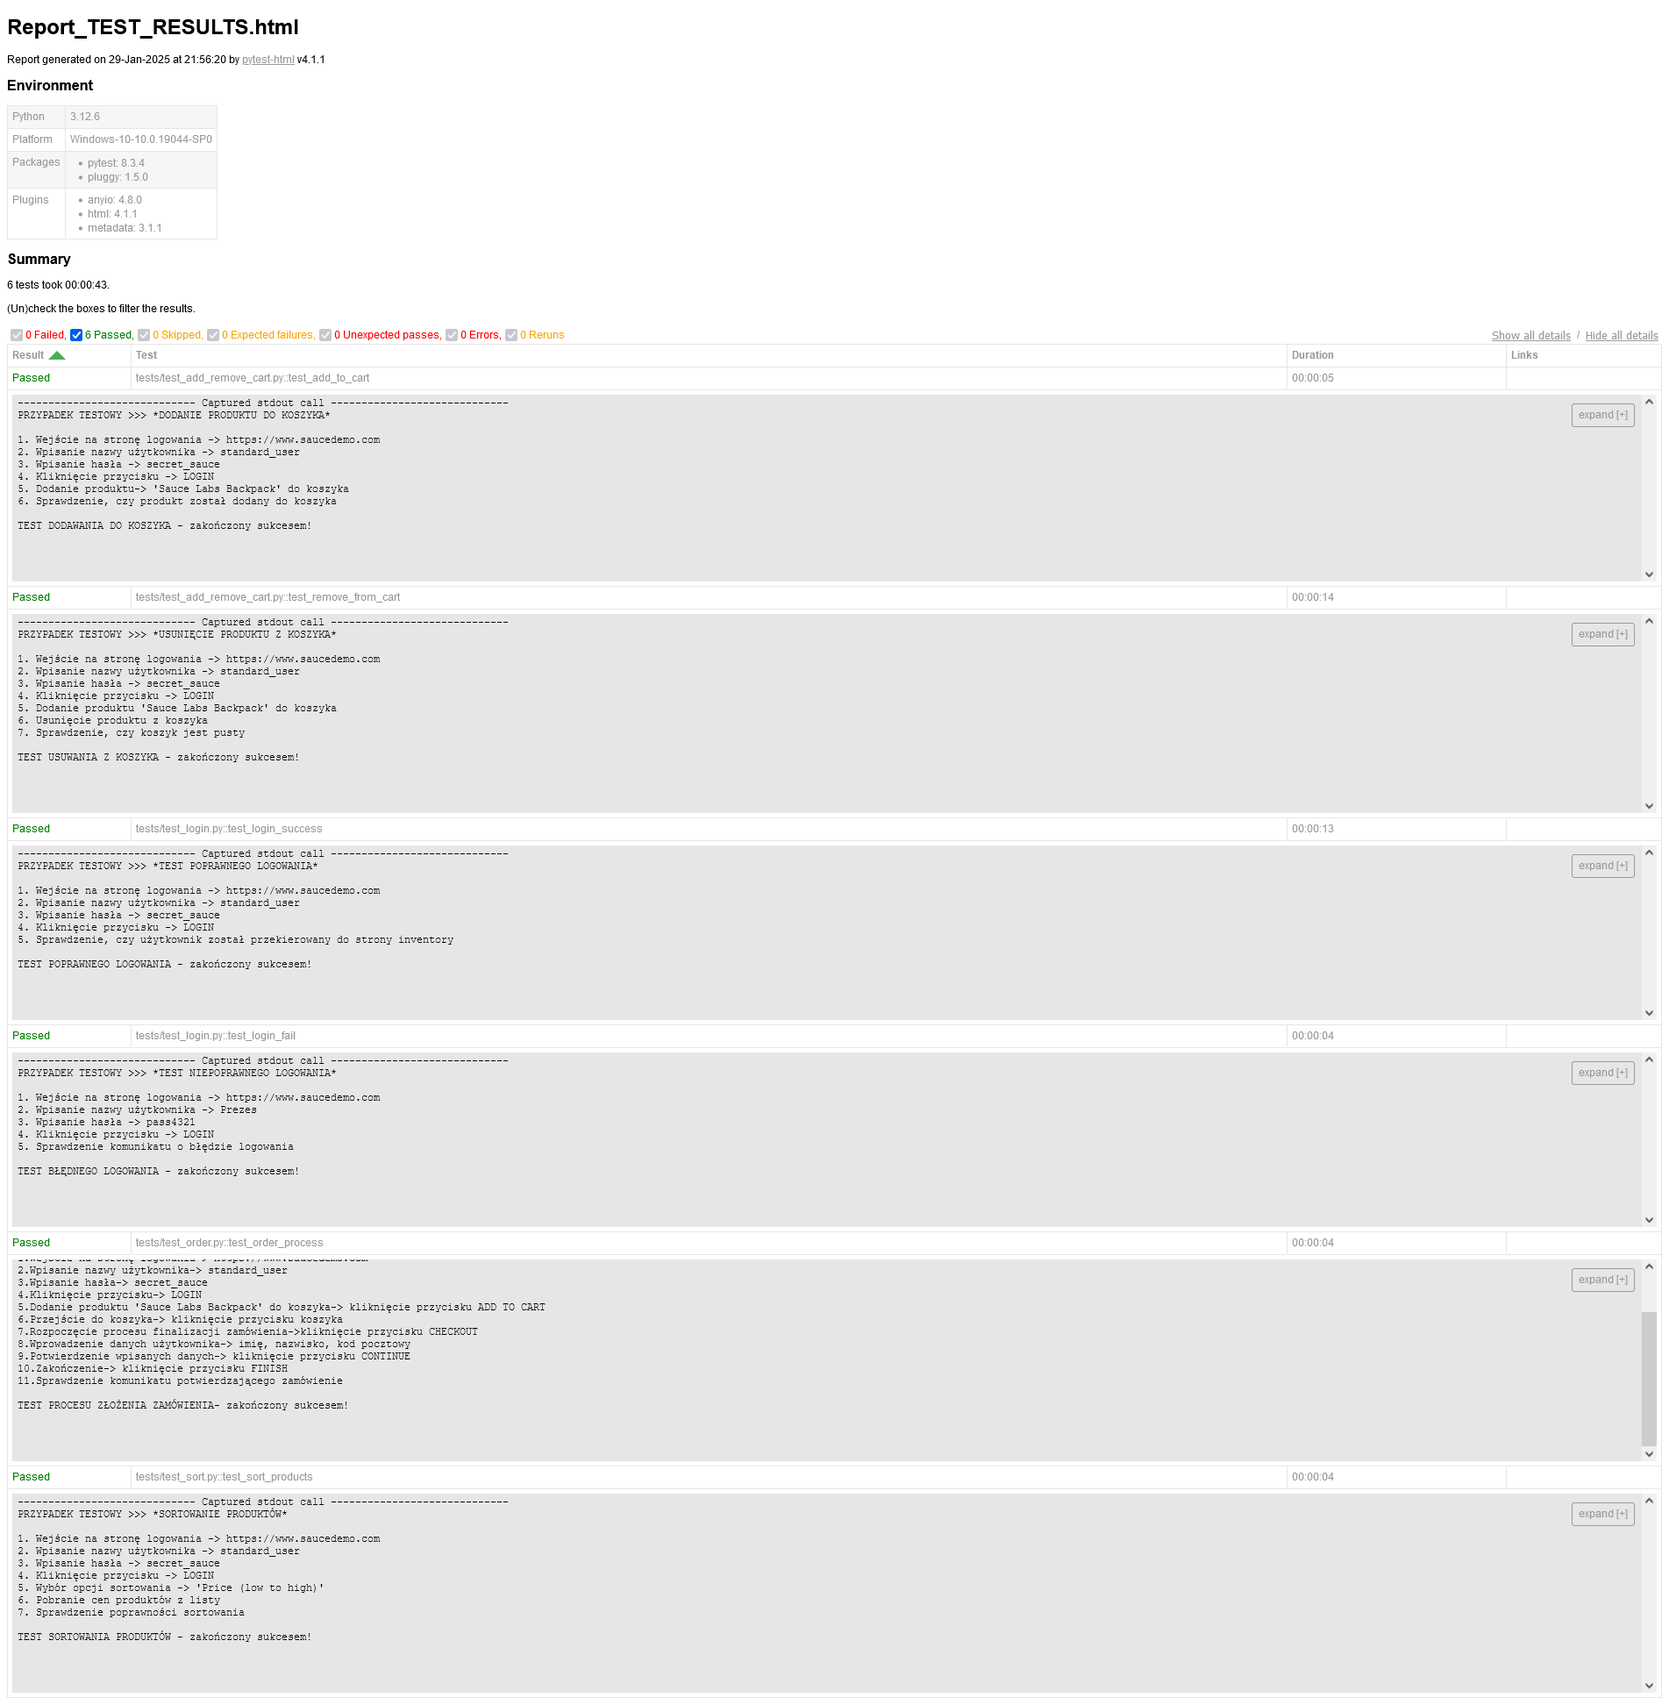
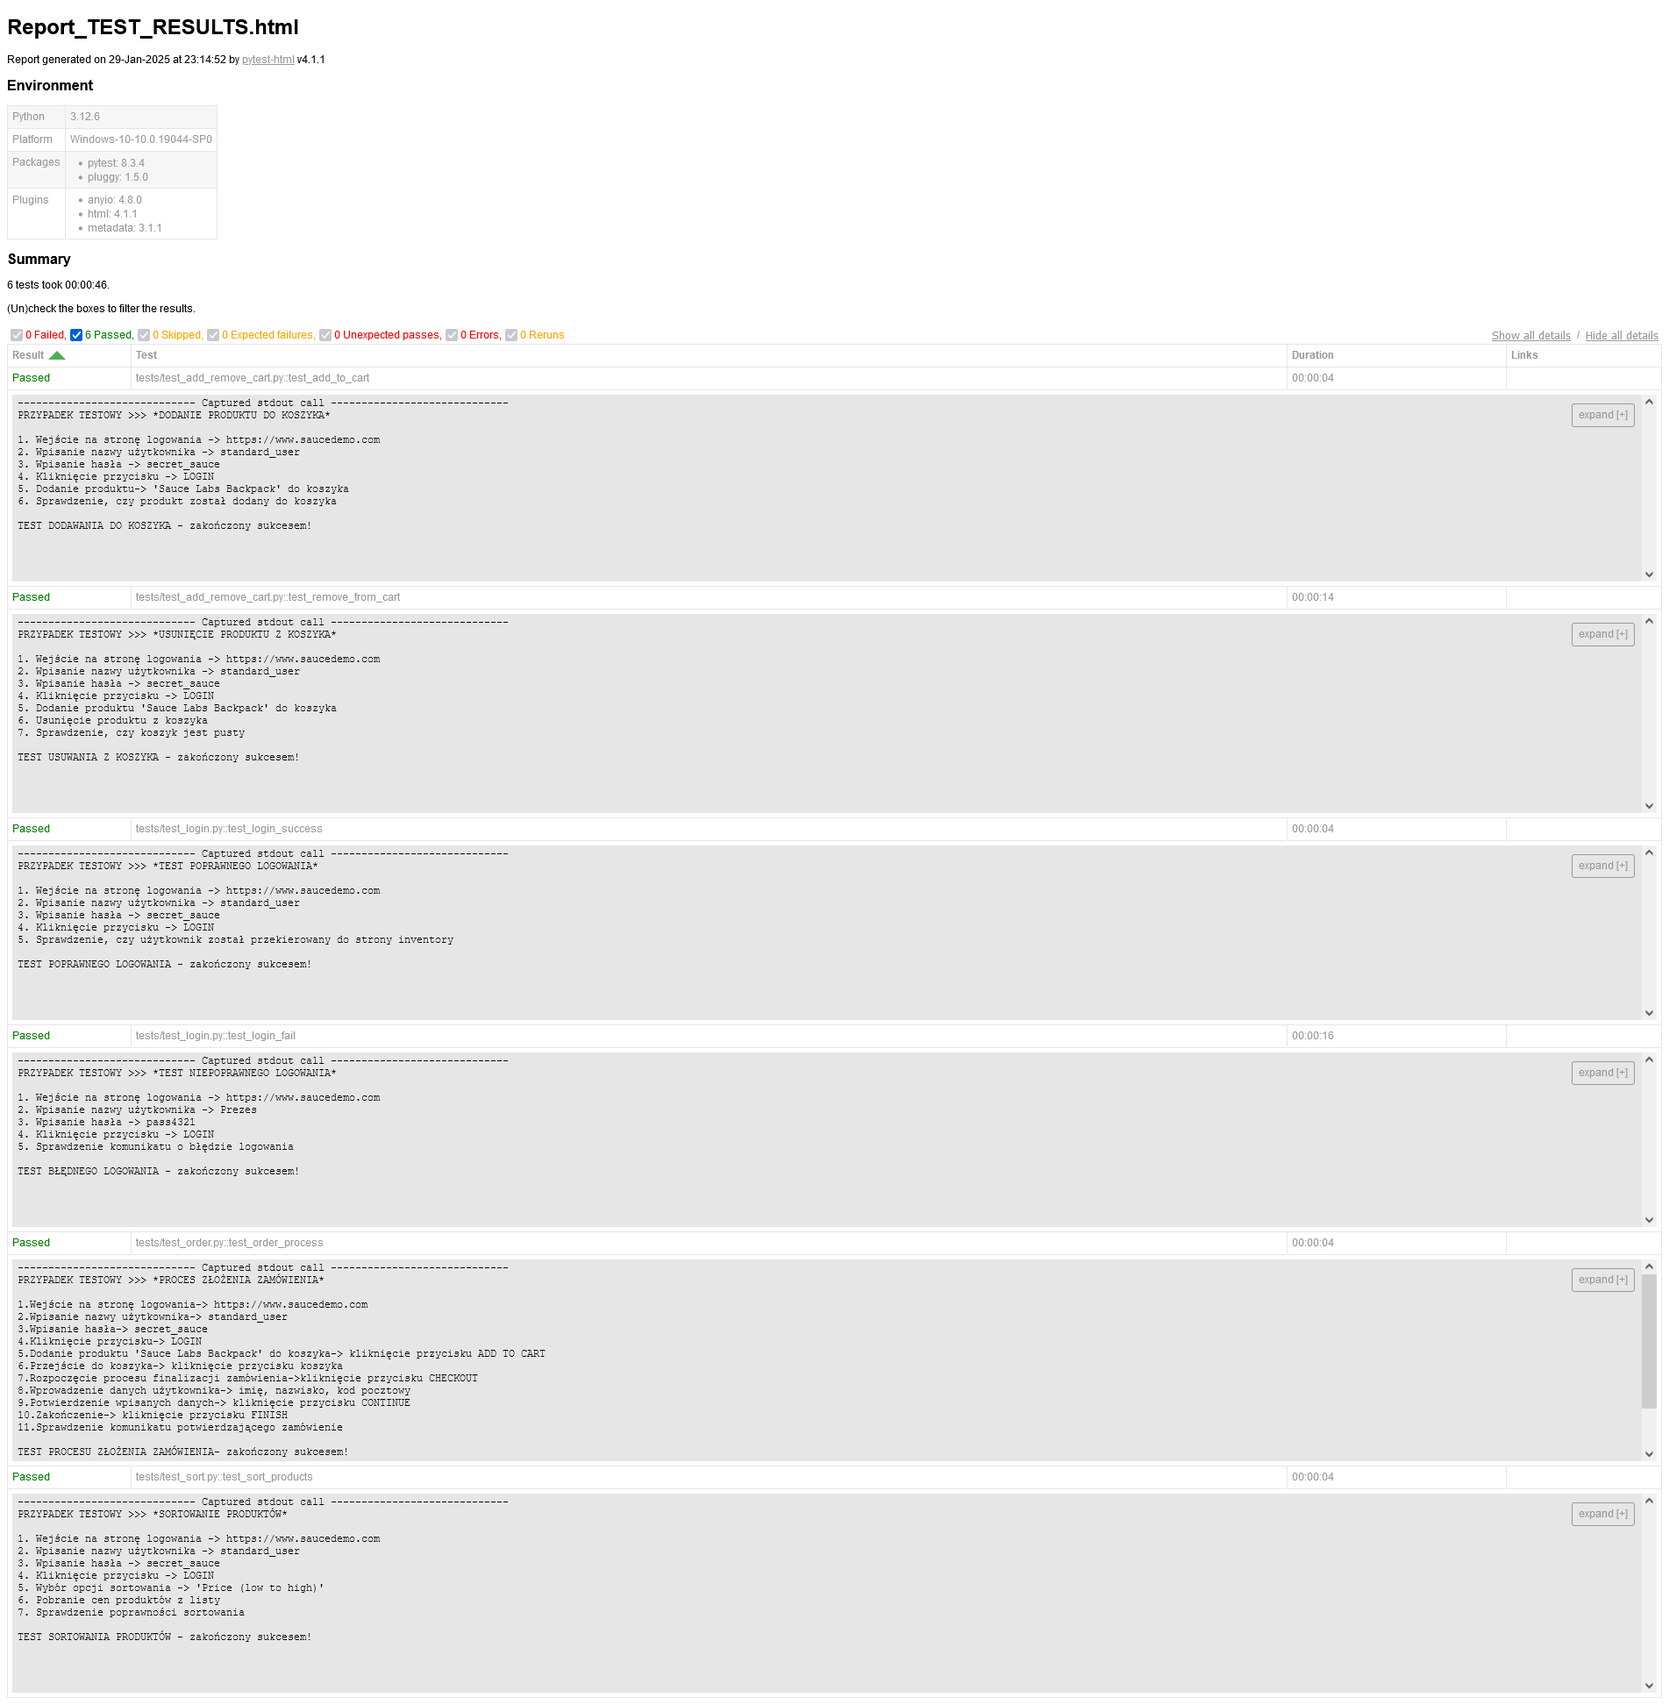
aktualizacja testów

Changed region(s): [[0.0, 0.7407, 0.279, 0.8642], [0.9611, 0.8333, 0.9921, 0.8642], [0.9611, 0.7407, 0.9921, 0.7716]]

diff --git a/reports/Report_TEST_RESULTS.html b/reports/Report_TEST_RESULTS.html
@@ -7,7 +7,7 @@
   </head>
   <body>
     <h1 id="title">Report_TEST_RESULTS.html</h1>
-    <p>Report generated on 29-Jan-2025 at 22:23:29 by <a href="https://pypi.python.org/pypi/pytest-html">pytest-html</a>
+    <p>Report generated on 29-Jan-2025 at 23:14:52 by <a href="https://pypi.python.org/pypi/pytest-html">pytest-html</a>
         v4.1.1</p>
     <div id="environment-header">
       <h2>Environment</h2>
@@ -61,7 +61,7 @@
         <h2>Summary</h2>
         <div class="additional-summary prefix">
         </div>
-        <p class="run-count">6 tests took 00:00:43.</p>
+        <p class="run-count">6 tests took 00:00:46.</p>
         <p class="filter">(Un)check the boxes to filter the results.</p>
         <div class="summary__reload">
           <div class="summary__reload__button hidden" onclick="location.reload()">
@@ -108,7 +108,7 @@
     </table>
   </body>
   <footer>
-    <div id="data-container" data-jsonblob="{&#34;environment&#34;: {&#34;Python&#34;: &#34;3.12.6&#34;, &#34;Platform&#34;: &#34;Windows-10-10.0.19044-SP0&#34;, &#34;Packages&#34;: {&#34;pytest&#34;: &#34;8.3.4&#34;, &#34;pluggy&#34;: &#34;1.5.0&#34;}, &#34;Plugins&#34;: {&#34;anyio&#34;: &#34;4.8.0&#34;, &#34;html&#34;: &#34;4.1.1&#34;, &#34;metadata&#34;: &#34;3.1.1&#34;}}, &#34;tests&#34;: {&#34;tests/test_add_remove_cart.py::test_add_to_cart&#34;: [{&#34;extras&#34;: [], &#34;result&#34;: &#34;Passed&#34;, &#34;testId&#34;: &#34;tests/test_add_remove_cart.py::test_add_to_cart&#34;, &#34;duration&#34;: &#34;00:00:04&#34;, &#34;resultsTableRow&#34;: [&#34;&lt;td class=\&#34;col-result\&#34;&gt;Passed&lt;/td&gt;&#34;, &#34;&lt;td class=\&#34;col-testId\&#34;&gt;tests/test_add_remove_cart.py::test_add_to_cart&lt;/td&gt;&#34;, &#34;&lt;td class=\&#34;col-duration\&#34;&gt;00:00:04&lt;/td&gt;&#34;, &#34;&lt;td class=\&#34;col-links\&#34;&gt;&lt;/td&gt;&#34;], &#34;log&#34;: &#34;----------------------------- Captured stdout call -----------------------------\nPRZYPADEK TESTOWY &amp;gt;&amp;gt;&amp;gt; *DODANIE PRODUKTU DO KOSZYKA*\n\n1. Wej\u015bcie na stron\u0119 logowania -&amp;gt; https://www.saucedemo.com\n2. Wpisanie nazwy u\u017cytkownika -&amp;gt; standard_user\n3. Wpisanie has\u0142a -&amp;gt; secret_sauce\n4. Klikni\u0119cie przycisku -&amp;gt; LOGIN\n5. Dodanie produktu-&amp;gt; &amp;#x27;Sauce Labs Backpack&amp;#x27; do koszyka\n6. Sprawdzenie, czy produkt zosta\u0142 dodany do koszyka\n\nTEST DODAWANIA DO KOSZYKA - zako\u0144czony sukcesem!\n&#34;}], &#34;tests/test_add_remove_cart.py::test_remove_from_cart&#34;: [{&#34;extras&#34;: [], &#34;result&#34;: &#34;Passed&#34;, &#34;testId&#34;: &#34;tests/test_add_remove_cart.py::test_remove_from_cart&#34;, &#34;duration&#34;: &#34;00:00:14&#34;, &#34;resultsTableRow&#34;: [&#34;&lt;td class=\&#34;col-result\&#34;&gt;Passed&lt;/td&gt;&#34;, &#34;&lt;td class=\&#34;col-testId\&#34;&gt;tests/test_add_remove_cart.py::test_remove_from_cart&lt;/td&gt;&#34;, &#34;&lt;td class=\&#34;col-duration\&#34;&gt;00:00:14&lt;/td&gt;&#34;, &#34;&lt;td class=\&#34;col-links\&#34;&gt;&lt;/td&gt;&#34;], &#34;log&#34;: &#34;----------------------------- Captured stdout call -----------------------------\nPRZYPADEK TESTOWY &amp;gt;&amp;gt;&amp;gt; *USUNI\u0118CIE PRODUKTU Z KOSZYKA*\n\n1. Wej\u015bcie na stron\u0119 logowania -&amp;gt; https://www.saucedemo.com\n2. Wpisanie nazwy u\u017cytkownika -&amp;gt; standard_user\n3. Wpisanie has\u0142a -&amp;gt; secret_sauce\n4. Klikni\u0119cie przycisku -&amp;gt; LOGIN\n5. Dodanie produktu &amp;#x27;Sauce Labs Backpack&amp;#x27; do koszyka\n6. Usuni\u0119cie produktu z koszyka\n7. Sprawdzenie, czy koszyk jest pusty\n\nTEST USUWANIA Z KOSZYKA - zako\u0144czony sukcesem!\n&#34;}], &#34;tests/test_login.py::test_login_success&#34;: [{&#34;extras&#34;: [], &#34;result&#34;: &#34;Passed&#34;, &#34;testId&#34;: &#34;tests/test_login.py::test_login_success&#34;, &#34;duration&#34;: &#34;00:00:12&#34;, &#34;resultsTableRow&#34;: [&#34;&lt;td class=\&#34;col-result\&#34;&gt;Passed&lt;/td&gt;&#34;, &#34;&lt;td class=\&#34;col-testId\&#34;&gt;tests/test_login.py::test_login_success&lt;/td&gt;&#34;, &#34;&lt;td class=\&#34;col-duration\&#34;&gt;00:00:12&lt;/td&gt;&#34;, &#34;&lt;td class=\&#34;col-links\&#34;&gt;&lt;/td&gt;&#34;], &#34;log&#34;: &#34;----------------------------- Captured stdout call -----------------------------\nPRZYPADEK TESTOWY &amp;gt;&amp;gt;&amp;gt; *TEST POPRAWNEGO LOGOWANIA*\n\n1. Wej\u015bcie na stron\u0119 logowania -&amp;gt; https://www.saucedemo.com\n2. Wpisanie nazwy u\u017cytkownika -&amp;gt; standard_user\n3. Wpisanie has\u0142a -&amp;gt; secret_sauce\n4. Klikni\u0119cie przycisku -&amp;gt; LOGIN\n5. Sprawdzenie, czy u\u017cytkownik zosta\u0142 przekierowany do strony inventory\n\nTEST POPRAWNEGO LOGOWANIA - zako\u0144czony sukcesem!\n&#34;}], &#34;tests/test_login.py::test_login_fail&#34;: [{&#34;extras&#34;: [], &#34;result&#34;: &#34;Passed&#34;, &#34;testId&#34;: &#34;tests/test_login.py::test_login_fail&#34;, &#34;duration&#34;: &#34;00:00:04&#34;, &#34;resultsTableRow&#34;: [&#34;&lt;td class=\&#34;col-result\&#34;&gt;Passed&lt;/td&gt;&#34;, &#34;&lt;td class=\&#34;col-testId\&#34;&gt;tests/test_login.py::test_login_fail&lt;/td&gt;&#34;, &#34;&lt;td class=\&#34;col-duration\&#34;&gt;00:00:04&lt;/td&gt;&#34;, &#34;&lt;td class=\&#34;col-links\&#34;&gt;&lt;/td&gt;&#34;], &#34;log&#34;: &#34;----------------------------- Captured stdout call -----------------------------\nPRZYPADEK TESTOWY &amp;gt;&amp;gt;&amp;gt; *TEST NIEPOPRAWNEGO LOGOWANIA*\n\n1. Wej\u015bcie na stron\u0119 logowania -&amp;gt; https://www.saucedemo.com\n2. Wpisanie nazwy u\u017cytkownika -&amp;gt; Prezes\n3. Wpisanie has\u0142a -&amp;gt; pass4321\n4. Klikni\u0119cie przycisku -&amp;gt; LOGIN\n5. Sprawdzenie komunikatu o b\u0142\u0119dzie logowania\n\nTEST B\u0141\u0118DNEGO LOGOWANIA - zako\u0144czony sukcesem!\n&#34;}], &#34;tests/test_order.py::test_order_process&#34;: [{&#34;extras&#34;: [], &#34;result&#34;: &#34;Passed&#34;, &#34;testId&#34;: &#34;tests/test_order.py::test_order_process&#34;, &#34;duration&#34;: &#34;00:00:04&#34;, &#34;resultsTableRow&#34;: [&#34;&lt;td class=\&#34;col-result\&#34;&gt;Passed&lt;/td&gt;&#34;, &#34;&lt;td class=\&#34;col-testId\&#34;&gt;tests/test_order.py::test_order_process&lt;/td&gt;&#34;, &#34;&lt;td class=\&#34;col-duration\&#34;&gt;00:00:04&lt;/td&gt;&#34;, &#34;&lt;td class=\&#34;col-links\&#34;&gt;&lt;/td&gt;&#34;], &#34;log&#34;: &#34;----------------------------- Captured stdout call -----------------------------\nPRZYPADEK TESTOWY &amp;gt;&amp;gt;&amp;gt; *PROCES Z\u0141O\u017bENIA ZAM\u00d3WIENIA*\n\n1.Wej\u015bcie na stron\u0119 logowania-&amp;gt; https://www.saucedemo.com\n2.Wpisanie nazwy u\u017cytkownika-&amp;gt; standard_user\n3.Wpisanie has\u0142a-&amp;gt; secret_sauce\n4.Klikni\u0119cie przycisku-&amp;gt; LOGIN\n5.Dodanie produktu &amp;#x27;Sauce Labs Backpack&amp;#x27; do koszyka-&amp;gt; klikni\u0119cie przycisku ADD TO CART\n6.Przej\u015bcie do koszyka-&amp;gt; klikni\u0119cie przycisku koszyka\n7.Rozpocz\u0119cie procesu finalizacji zam\u00f3wienia-&amp;gt;klikni\u0119cie przycisku CHECKOUT\n8.Wprowadzenie danych u\u017cytkownika-&amp;gt; imi\u0119, nazwisko, kod pocztowy\n9.Potwierdzenie wpisanych danych-&amp;gt; klikni\u0119cie przycisku CONTINUE\n10.Zako\u0144czenie-&amp;gt; klikni\u0119cie przycisku FINISH\n11.Sprawdzenie komunikatu potwierdzaj\u0105cego zam\u00f3wienie\n\nTEST PROCESU Z\u0141O\u017bENIA ZAM\u00d3WIENIA- zako\u0144czony sukcesem!\n&#34;}], &#34;tests/test_sort.py::test_sort_products&#34;: [{&#34;extras&#34;: [], &#34;result&#34;: &#34;Passed&#34;, &#34;testId&#34;: &#34;tests/test_sort.py::test_sort_products&#34;, &#34;duration&#34;: &#34;00:00:04&#34;, &#34;resultsTableRow&#34;: [&#34;&lt;td class=\&#34;col-result\&#34;&gt;Passed&lt;/td&gt;&#34;, &#34;&lt;td class=\&#34;col-testId\&#34;&gt;tests/test_sort.py::test_sort_products&lt;/td&gt;&#34;, &#34;&lt;td class=\&#34;col-duration\&#34;&gt;00:00:04&lt;/td&gt;&#34;, &#34;&lt;td class=\&#34;col-links\&#34;&gt;&lt;/td&gt;&#34;], &#34;log&#34;: &#34;----------------------------- Captured stdout call -----------------------------\nPRZYPADEK TESTOWY &amp;gt;&amp;gt;&amp;gt; *SORTOWANIE PRODUKT\u00d3W*\n\n1. Wej\u015bcie na stron\u0119 logowania -&amp;gt; https://www.saucedemo.com\n2. Wpisanie nazwy u\u017cytkownika -&amp;gt; standard_user\n3. Wpisanie has\u0142a -&amp;gt; secret_sauce\n4. Klikni\u0119cie przycisku -&amp;gt; LOGIN\n5. Wyb\u00f3r opcji sortowania -&amp;gt; &amp;#x27;Price (low to high)&amp;#x27;\n6. Pobranie cen produkt\u00f3w z listy\n7. Sprawdzenie poprawno\u015bci sortowania\n\nTEST SORTOWANIA PRODUKT\u00d3W - zako\u0144czony sukcesem!\n&#34;}]}, &#34;renderCollapsed&#34;: [&#34;passed&#34;], &#34;initialSort&#34;: &#34;result&#34;, &#34;title&#34;: &#34;Report_TEST_RESULTS.html&#34;}"></div>
+    <div id="data-container" data-jsonblob="{&#34;environment&#34;: {&#34;Python&#34;: &#34;3.12.6&#34;, &#34;Platform&#34;: &#34;Windows-10-10.0.19044-SP0&#34;, &#34;Packages&#34;: {&#34;pytest&#34;: &#34;8.3.4&#34;, &#34;pluggy&#34;: &#34;1.5.0&#34;}, &#34;Plugins&#34;: {&#34;anyio&#34;: &#34;4.8.0&#34;, &#34;html&#34;: &#34;4.1.1&#34;, &#34;metadata&#34;: &#34;3.1.1&#34;}}, &#34;tests&#34;: {&#34;tests/test_add_remove_cart.py::test_add_to_cart&#34;: [{&#34;extras&#34;: [], &#34;result&#34;: &#34;Passed&#34;, &#34;testId&#34;: &#34;tests/test_add_remove_cart.py::test_add_to_cart&#34;, &#34;duration&#34;: &#34;00:00:04&#34;, &#34;resultsTableRow&#34;: [&#34;&lt;td class=\&#34;col-result\&#34;&gt;Passed&lt;/td&gt;&#34;, &#34;&lt;td class=\&#34;col-testId\&#34;&gt;tests/test_add_remove_cart.py::test_add_to_cart&lt;/td&gt;&#34;, &#34;&lt;td class=\&#34;col-duration\&#34;&gt;00:00:04&lt;/td&gt;&#34;, &#34;&lt;td class=\&#34;col-links\&#34;&gt;&lt;/td&gt;&#34;], &#34;log&#34;: &#34;----------------------------- Captured stdout call -----------------------------\nPRZYPADEK TESTOWY &amp;gt;&amp;gt;&amp;gt; *DODANIE PRODUKTU DO KOSZYKA*\n\n1. Wej\u015bcie na stron\u0119 logowania -&amp;gt; https://www.saucedemo.com\n2. Wpisanie nazwy u\u017cytkownika -&amp;gt; standard_user\n3. Wpisanie has\u0142a -&amp;gt; secret_sauce\n4. Klikni\u0119cie przycisku -&amp;gt; LOGIN\n5. Dodanie produktu-&amp;gt; &amp;#x27;Sauce Labs Backpack&amp;#x27; do koszyka\n6. Sprawdzenie, czy produkt zosta\u0142 dodany do koszyka\n\nTEST DODAWANIA DO KOSZYKA - zako\u0144czony sukcesem!\n&#34;}], &#34;tests/test_add_remove_cart.py::test_remove_from_cart&#34;: [{&#34;extras&#34;: [], &#34;result&#34;: &#34;Passed&#34;, &#34;testId&#34;: &#34;tests/test_add_remove_cart.py::test_remove_from_cart&#34;, &#34;duration&#34;: &#34;00:00:14&#34;, &#34;resultsTableRow&#34;: [&#34;&lt;td class=\&#34;col-result\&#34;&gt;Passed&lt;/td&gt;&#34;, &#34;&lt;td class=\&#34;col-testId\&#34;&gt;tests/test_add_remove_cart.py::test_remove_from_cart&lt;/td&gt;&#34;, &#34;&lt;td class=\&#34;col-duration\&#34;&gt;00:00:14&lt;/td&gt;&#34;, &#34;&lt;td class=\&#34;col-links\&#34;&gt;&lt;/td&gt;&#34;], &#34;log&#34;: &#34;----------------------------- Captured stdout call -----------------------------\nPRZYPADEK TESTOWY &amp;gt;&amp;gt;&amp;gt; *USUNI\u0118CIE PRODUKTU Z KOSZYKA*\n\n1. Wej\u015bcie na stron\u0119 logowania -&amp;gt; https://www.saucedemo.com\n2. Wpisanie nazwy u\u017cytkownika -&amp;gt; standard_user\n3. Wpisanie has\u0142a -&amp;gt; secret_sauce\n4. Klikni\u0119cie przycisku -&amp;gt; LOGIN\n5. Dodanie produktu &amp;#x27;Sauce Labs Backpack&amp;#x27; do koszyka\n6. Usuni\u0119cie produktu z koszyka\n7. Sprawdzenie, czy koszyk jest pusty\n\nTEST USUWANIA Z KOSZYKA - zako\u0144czony sukcesem!\n&#34;}], &#34;tests/test_login.py::test_login_success&#34;: [{&#34;extras&#34;: [], &#34;result&#34;: &#34;Passed&#34;, &#34;testId&#34;: &#34;tests/test_login.py::test_login_success&#34;, &#34;duration&#34;: &#34;00:00:04&#34;, &#34;resultsTableRow&#34;: [&#34;&lt;td class=\&#34;col-result\&#34;&gt;Passed&lt;/td&gt;&#34;, &#34;&lt;td class=\&#34;col-testId\&#34;&gt;tests/test_login.py::test_login_success&lt;/td&gt;&#34;, &#34;&lt;td class=\&#34;col-duration\&#34;&gt;00:00:04&lt;/td&gt;&#34;, &#34;&lt;td class=\&#34;col-links\&#34;&gt;&lt;/td&gt;&#34;], &#34;log&#34;: &#34;----------------------------- Captured stdout call -----------------------------\nPRZYPADEK TESTOWY &amp;gt;&amp;gt;&amp;gt; *TEST POPRAWNEGO LOGOWANIA*\n\n1. Wej\u015bcie na stron\u0119 logowania -&amp;gt; https://www.saucedemo.com\n2. Wpisanie nazwy u\u017cytkownika -&amp;gt; standard_user\n3. Wpisanie has\u0142a -&amp;gt; secret_sauce\n4. Klikni\u0119cie przycisku -&amp;gt; LOGIN\n5. Sprawdzenie, czy u\u017cytkownik zosta\u0142 przekierowany do strony inventory\n\nTEST POPRAWNEGO LOGOWANIA - zako\u0144czony sukcesem!\n&#34;}], &#34;tests/test_login.py::test_login_fail&#34;: [{&#34;extras&#34;: [], &#34;result&#34;: &#34;Passed&#34;, &#34;testId&#34;: &#34;tests/test_login.py::test_login_fail&#34;, &#34;duration&#34;: &#34;00:00:16&#34;, &#34;resultsTableRow&#34;: [&#34;&lt;td class=\&#34;col-result\&#34;&gt;Passed&lt;/td&gt;&#34;, &#34;&lt;td class=\&#34;col-testId\&#34;&gt;tests/test_login.py::test_login_fail&lt;/td&gt;&#34;, &#34;&lt;td class=\&#34;col-duration\&#34;&gt;00:00:16&lt;/td&gt;&#34;, &#34;&lt;td class=\&#34;col-links\&#34;&gt;&lt;/td&gt;&#34;], &#34;log&#34;: &#34;----------------------------- Captured stdout call -----------------------------\nPRZYPADEK TESTOWY &amp;gt;&amp;gt;&amp;gt; *TEST NIEPOPRAWNEGO LOGOWANIA*\n\n1. Wej\u015bcie na stron\u0119 logowania -&amp;gt; https://www.saucedemo.com\n2. Wpisanie nazwy u\u017cytkownika -&amp;gt; Prezes\n3. Wpisanie has\u0142a -&amp;gt; pass4321\n4. Klikni\u0119cie przycisku -&amp;gt; LOGIN\n5. Sprawdzenie komunikatu o b\u0142\u0119dzie logowania\n\nTEST B\u0141\u0118DNEGO LOGOWANIA - zako\u0144czony sukcesem!\n&#34;}], &#34;tests/test_order.py::test_order_process&#34;: [{&#34;extras&#34;: [], &#34;result&#34;: &#34;Passed&#34;, &#34;testId&#34;: &#34;tests/test_order.py::test_order_process&#34;, &#34;duration&#34;: &#34;00:00:04&#34;, &#34;resultsTableRow&#34;: [&#34;&lt;td class=\&#34;col-result\&#34;&gt;Passed&lt;/td&gt;&#34;, &#34;&lt;td class=\&#34;col-testId\&#34;&gt;tests/test_order.py::test_order_process&lt;/td&gt;&#34;, &#34;&lt;td class=\&#34;col-duration\&#34;&gt;00:00:04&lt;/td&gt;&#34;, &#34;&lt;td class=\&#34;col-links\&#34;&gt;&lt;/td&gt;&#34;], &#34;log&#34;: &#34;----------------------------- Captured stdout call -----------------------------\nPRZYPADEK TESTOWY &amp;gt;&amp;gt;&amp;gt; *PROCES Z\u0141O\u017bENIA ZAM\u00d3WIENIA*\n\n1.Wej\u015bcie na stron\u0119 logowania-&amp;gt; https://www.saucedemo.com\n2.Wpisanie nazwy u\u017cytkownika-&amp;gt; standard_user\n3.Wpisanie has\u0142a-&amp;gt; secret_sauce\n4.Klikni\u0119cie przycisku-&amp;gt; LOGIN\n5.Dodanie produktu &amp;#x27;Sauce Labs Backpack&amp;#x27; do koszyka-&amp;gt; klikni\u0119cie przycisku ADD TO CART\n6.Przej\u015bcie do koszyka-&amp;gt; klikni\u0119cie przycisku koszyka\n7.Rozpocz\u0119cie procesu finalizacji zam\u00f3wienia-&amp;gt;klikni\u0119cie przycisku CHECKOUT\n8.Wprowadzenie danych u\u017cytkownika-&amp;gt; imi\u0119, nazwisko, kod pocztowy\n9.Potwierdzenie wpisanych danych-&amp;gt; klikni\u0119cie przycisku CONTINUE\n10.Zako\u0144czenie-&amp;gt; klikni\u0119cie przycisku FINISH\n11.Sprawdzenie komunikatu potwierdzaj\u0105cego zam\u00f3wienie\n\nTEST PROCESU Z\u0141O\u017bENIA ZAM\u00d3WIENIA- zako\u0144czony sukcesem!\n&#34;}], &#34;tests/test_sort.py::test_sort_products&#34;: [{&#34;extras&#34;: [], &#34;result&#34;: &#34;Passed&#34;, &#34;testId&#34;: &#34;tests/test_sort.py::test_sort_products&#34;, &#34;duration&#34;: &#34;00:00:04&#34;, &#34;resultsTableRow&#34;: [&#34;&lt;td class=\&#34;col-result\&#34;&gt;Passed&lt;/td&gt;&#34;, &#34;&lt;td class=\&#34;col-testId\&#34;&gt;tests/test_sort.py::test_sort_products&lt;/td&gt;&#34;, &#34;&lt;td class=\&#34;col-duration\&#34;&gt;00:00:04&lt;/td&gt;&#34;, &#34;&lt;td class=\&#34;col-links\&#34;&gt;&lt;/td&gt;&#34;], &#34;log&#34;: &#34;----------------------------- Captured stdout call -----------------------------\nPRZYPADEK TESTOWY &amp;gt;&amp;gt;&amp;gt; *SORTOWANIE PRODUKT\u00d3W*\n\n1. Wej\u015bcie na stron\u0119 logowania -&amp;gt; https://www.saucedemo.com\n2. Wpisanie nazwy u\u017cytkownika -&amp;gt; standard_user\n3. Wpisanie has\u0142a -&amp;gt; secret_sauce\n4. Klikni\u0119cie przycisku -&amp;gt; LOGIN\n5. Wyb\u00f3r opcji sortowania -&amp;gt; &amp;#x27;Price (low to high)&amp;#x27;\n6. Pobranie cen produkt\u00f3w z listy\n7. Sprawdzenie poprawno\u015bci sortowania\n\nTEST SORTOWANIA PRODUKT\u00d3W - zako\u0144czony sukcesem!\n&#34;}]}, &#34;renderCollapsed&#34;: [&#34;passed&#34;], &#34;initialSort&#34;: &#34;result&#34;, &#34;title&#34;: &#34;Report_TEST_RESULTS.html&#34;}"></div>
     <script>
       (function(){function r(e,n,t){function o(i,f){if(!n[i]){if(!e[i]){var c="function"==typeof require&&require;if(!f&&c)return c(i,!0);if(u)return u(i,!0);var a=new Error("Cannot find module '"+i+"'");throw a.code="MODULE_NOT_FOUND",a}var p=n[i]={exports:{}};e[i][0].call(p.exports,function(r){var n=e[i][1][r];return o(n||r)},p,p.exports,r,e,n,t)}return n[i].exports}for(var u="function"==typeof require&&require,i=0;i<t.length;i++)o(t[i]);return o}return r})()({1:[function(require,module,exports){
 const { getCollapsedCategory, setCollapsedIds } = require('./storage.js')
